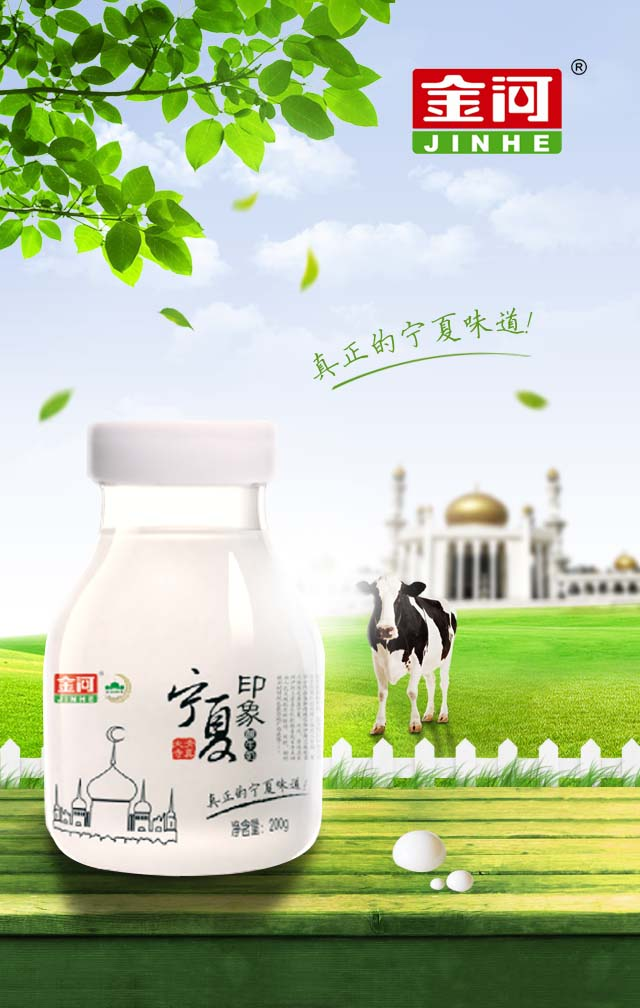
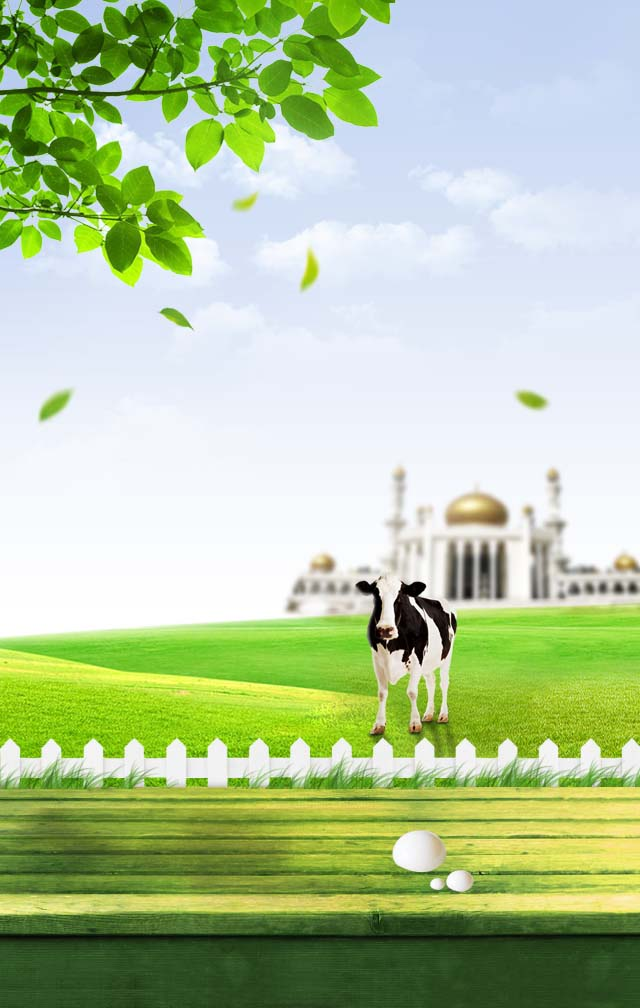
唯简-牛奶
修改动画

diff --git a/weijian/milk/css/index.css b/weijian/milk/css/index.css
@@ -21,6 +21,155 @@ div.main{
 	background-size: cover;
     position: relative;
 }
+div.main img{
+    position: absolute;
+}
+img.logo{
+    width: 34.8437%;
+    height: 12.0039%;
+    left: 34.5312%;
+    top: 8.2341%;
+    opacity: 0;
+    -webkit-animation: logo 1s ease 0s forwards;
+    animation: logo 1s ease 0s forwards;
+}
+@-webkit-keyframes logo{
+  0%{transform: translateY(-30px);-webkit-transform: translateY(-30px);opacity: 0;}
+  100%{transform: translateY(0);-webkit-transform: translateY(0);opacity: 1;}
+}
+@keyframes logo{
+  0%{transform: translateY(-30px);-webkit-transform: translateY(-30px);opacity: 0;}
+  100%{transform: translateY(0);-webkit-transform: translateY(0);opacity: 1;}
+}
+div.milk_t{
+    position: absolute;
+    width: 34.375%;
+    height: 8.2341%;
+    left: 33.5937%;
+    top: 25.5952%;
+}
+div.milk_t img{
+    opacity: 0;
+}
+div.milk_t img.milkz{
+    position: absolute;
+    height: 87.9518%;
+    top: 0;
+}
+img.milk01{
+    width: 12.7272%;
+    left: 0;
+    -webkit-animation: milk01 .3s ease 1s forwards;
+    animation: milk01 .3s ease 1s forwards;
+}
+@-webkit-keyframes milk01{
+  0%{opacity: 0;}
+  100%{opacity: 1;}
+}
+@keyframes milk01{
+  0%{opacity: 0;}
+  100%{opacity: 1;}
+}
+img.milk02{
+    width: 13.1818%;
+    left: 12.7272%;
+    -webkit-animation: milk02 .3s ease 1.1s forwards;
+    animation: milk02 .3s ease 1.1s forwards;
+}
+@-webkit-keyframes milk02{
+  0%{opacity: 0;}
+  100%{opacity: 1;}
+}
+@keyframes milk02{
+  0%{opacity: 0;}
+  100%{opacity: 1;}
+}
+img.milk03{
+    width: 12.7272%;
+    left: 25.909%;
+    -webkit-animation: milk03 .3s ease 1.2s forwards;
+    animation: milk03 .3s ease 1.2s forwards;
+}
+@-webkit-keyframes milk03{
+  0%{opacity: 0;}
+  100%{opacity: 1;}
+}
+@keyframes milk03{
+  0%{opacity: 0;}
+  100%{opacity: 1;}
+}
+img.milk04{
+    width: 13.6363%;
+    left: 38.6362%;
+    -webkit-animation: milk04 .3s ease 1.3s forwards;
+    animation: milk04 .3s ease 1.3s forwards;
+}
+@-webkit-keyframes milk04{
+  0%{opacity: 0;}
+  100%{opacity: 1;}
+}
+@keyframes milk04{
+  0%{opacity: 0;}
+  100%{opacity: 1;}
+}
+img.milk05{
+    width: 15.4545%;
+    left: 52.2725%;
+    -webkit-animation: milk05 .3s ease 1.4s forwards;
+    animation: milk05 .3s ease 1.4s forwards;
+}
+@-webkit-keyframes milk05{
+  0%{opacity: 0;}
+  100%{opacity: 1;}
+}
+@keyframes milk05{
+  0%{opacity: 0;}
+  100%{opacity: 1;}
+}
+img.milk06{
+    width: 15%;
+    left: 67.727%;
+    -webkit-animation: milk06 .3s ease 1.5s forwards;
+    animation: milk06 .3s ease 1.5s forwards;
+}
+@-webkit-keyframes milk06{
+  0%{opacity: 0;}
+  100%{opacity: 1;}
+}
+@keyframes milk06{
+  0%{opacity: 0;}
+  100%{opacity: 1;}
+}
+img.milk07{
+    width: 17.2727%;
+    left: 82.727%;
+    -webkit-animation: milk07 .3s ease 1.6s forwards;
+    animation: milk07 .3s ease 1.6s forwards;
+}
+@-webkit-keyframes milk07{
+  0%{opacity: 0;}
+  100%{opacity: 1;}
+}
+@keyframes milk07{
+  0%{opacity: 0;}
+  100%{opacity: 1;}
+}
+img.milk08{
+    width: 90.9090%;
+    height: 45.7831%;
+    left: 9.5454%;
+    bottom: 0;
+    -webkit-animation: milk08 .5s ease 1.8s forwards;
+    animation: milk08 .5s ease 1.8s forwards;
+}
+@-webkit-keyframes milk08{
+  0%{transform: translateX(-30px) translateY(30px);-webkit-transform: translateX(-30px) translateY(30px);opacity: 0;}
+  100%{transform: translateX(0px) translateY(0px);-webkit-transform: translateX(0px) translateY(0px);opacity: 1;}
+}
+@keyframes milk08{
+  0%{transform: translateX(-30px) translateY(30px);-webkit-transform: translateX(-30px) translateY(30px);opacity: 0;}
+  100%{transform: translateX(0px) translateY(0px);-webkit-transform: translateX(0px) translateY(0px);opacity: 1;}
+}
 a.comein{
     display: block;
     position: absolute;
@@ -29,7 +178,20 @@ a.comein{
     left: 32.1094%;
     bottom: 7.4%;
 }
-
+img.imbg{
+    -webkit-animation: comein 3s ease-in-out 0s infinite;
+    animation: comein 3s ease-in-out 0s infinite;
+}
+@-webkit-keyframes comein{
+  0%{opacity: 1;}
+  50%{opacity: 0;}
+  100%{opacity: 1;}
+}
+@keyframes comein{
+  0%{opacity: 1;}
+  50%{opacity: 0;}
+  100%{opacity: 1;}
+}
 a.gomain{
 	display: block;
 	width: 100%;
@@ -151,7 +313,86 @@ div.main_bg{
 	height: 100%;
 	background: url(../img/index.jpg) no-repeat center;
 	background-size: cover;
+    position: relative;
 }
+div.m_second img{
+    opacity: 0;
+}
+img.naiping{
+    position: absolute;
+    width: 47.5%;
+    height: 53.0753%;
+    left: 6%;
+    bottom: 5%;
+}
+div.m_second img.naiping{
+    -webkit-animation: naiping 1s ease 0s forwards;
+    animation: naiping 1s ease 0s forwards;
+}
+@-webkit-keyframes naiping{
+  0%{transform: translateX(-100px);-webkit-transform: translateX(-100px);opacity: 0;}
+  100%{transform: translateX(0px);-webkit-transform: translateX(0px);opacity: 1;}
+}
+@keyframes naiping{
+  0%{transform: translateX(-100px);-webkit-transform: translateX(-100px);opacity: 0;}
+  100%{transform: translateX(0px);-webkit-transform: translateX(0px);opacity: 1;}
+}
+img.two_logo{
+    position: absolute;
+    width: 27.3437%;
+    height: 9.4246%;
+    right: 8.5937%;
+    top: 5.9523%;
+}
+div.m_second img.two_logo{
+    -webkit-animation: two_logo 1s ease 1s forwards;
+    animation: two_logo 1s ease 1s forwards;
+}
+@-webkit-keyframes two_logo{
+  0%{transform: translateY(-30px);-webkit-transform: translateY(-30px);opacity: 0;}
+  100%{transform: translateY(0px);-webkit-transform: translateY(0px);opacity: 1;}
+}
+@keyframes two_logo{
+  0%{transform: translateY(-30px);-webkit-transform: translateY(-30px);opacity: 0;}
+  100%{transform: translateY(0px);-webkit-transform: translateY(0px);opacity: 1;}
+}
+img.guang{
+    position: absolute;
+    width: 39.0625%;
+    height: 24.8015%;
+    left: 30%;
+    bottom: 29%;
+}
+img#guang{
+    opacity: 1;
+}
+div.m_second img.guang{
+    -webkit-animation: guang 3.5s ease-in-out 0s infinite;
+    animation: guang 3.5s ease-in-out 0s infinite;
+}
+@-webkit-keyframes guang{
+  0%{opacity: 1;}
+  50%{opacity: 0.8;}
+  100%{opacity: 1;}
+}
+@keyframes guang{
+  0%{opacity: 1;}
+  50%{opacity: 0.8;}
+  100%{opacity: 1;}
+}
+
+
+
+
+
+
+
+
+
+
+
+
+
 a.back {
   display: block;
   height: 30px;

diff --git a/weijian/milk/index.html b/weijian/milk/index.html
@@ -19,8 +19,20 @@
 	</head>
 	<body>
 		<div class="main">
+			<img src="img/logo.png" alt="" class="logo">
+			<div class="milk_t">
+				<img class="milkz milk01" src="img/milk01.png" alt="">
+				<img class="milkz milk02" src="img/milk02.png" alt="">
+				<img class="milkz milk03" src="img/milk03.png" alt="">
+				<img class="milkz milk04" src="img/milk04.png" alt="">
+				<img class="milkz milk05" src="img/milk05.png" alt="">
+				<img class="milkz milk06" src="img/milk06.png" alt="">
+				<img class="milkz milk07" src="img/milk07.png" alt="">
+				<img class="milk08" src="img/milk08.png" alt="">
+			</div>
 			<a class="a_bl comein" href="main.html">
 				<img class="img-responsive" src="img/gomain.png" alt="">
+				<img class="imbg img-responsive" src="img/gomain_bg.png" alt="">
 			</a>
 		</div>
 	</body>

diff --git a/weijian/milk/main.html b/weijian/milk/main.html
@@ -52,6 +52,11 @@
 	</head>
 	<body>
 		<div class="main_bg">
+			<div class="m_second">
+				<img class="naiping" src="img/naiping.png" alt="">
+				<img class="two_logo" src="img/logo2.png" alt="">
+				<img id="guang" class="guang" src="img/guang.png" alt="">
+			</div>
 			<a class="kongbai" href="#"></a>
 			<img id="nav_btn" src="img/btn.png"/>
 			<div class="menu">
